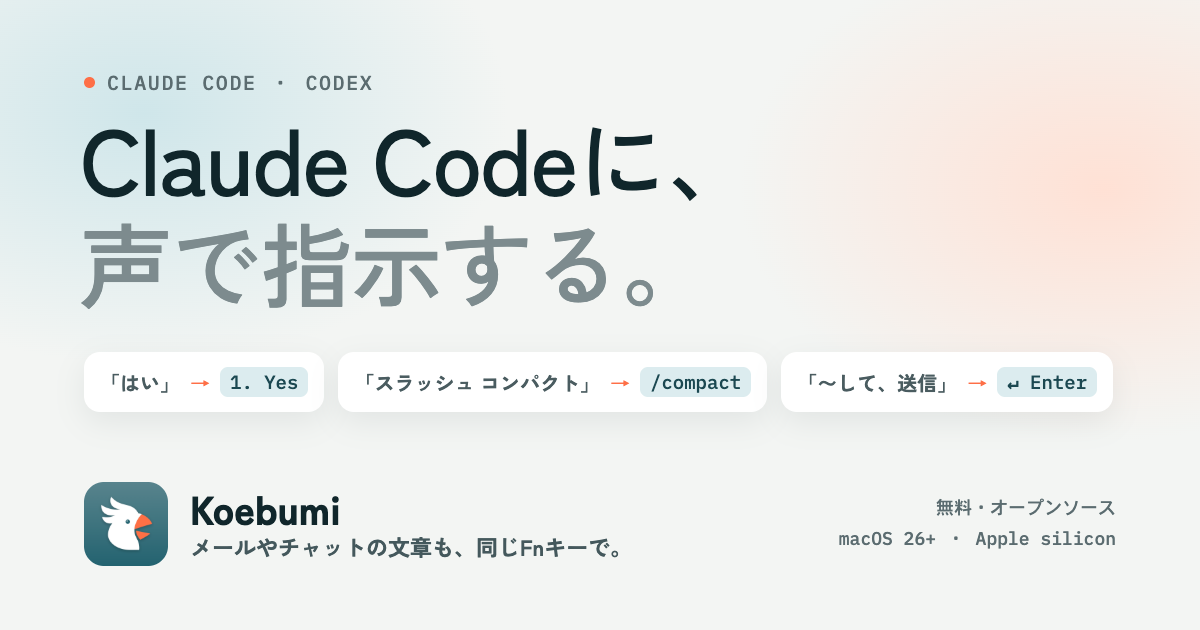
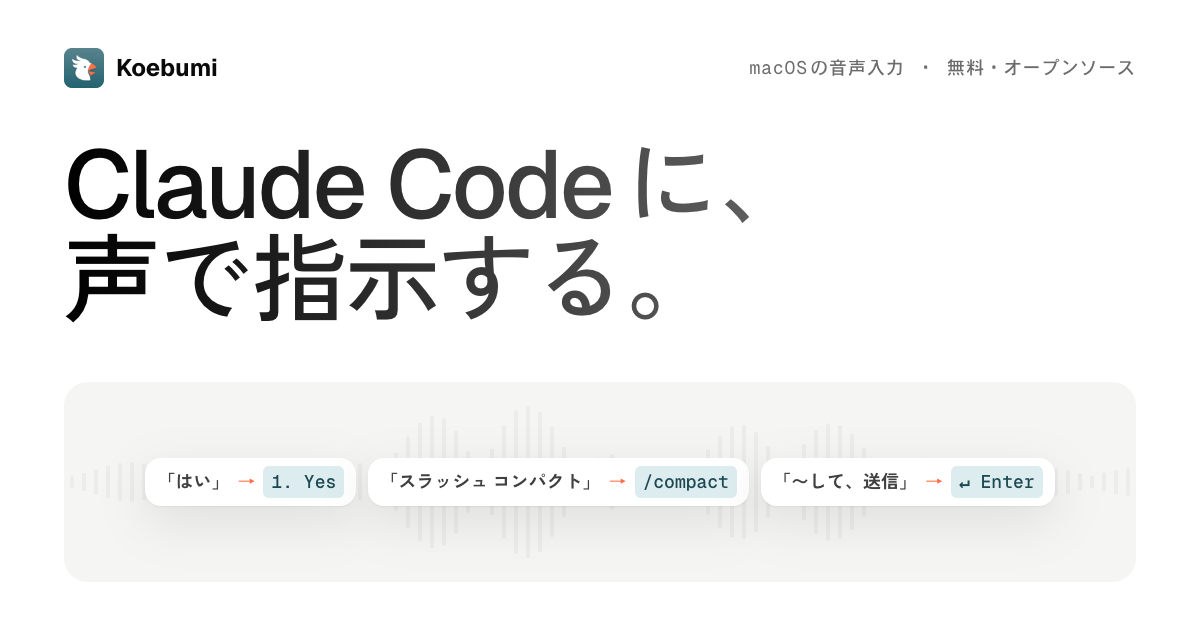
リンクのプレビュー画像を、作り直したサイトの見た目に合わせる
白い地に、墨から灰への見出しと、ファーストビューと同じ波形を置く。書体は Geist と Zen Kaku Gothic New。
X や Slack が前の画像を覚えたままにならないよう、画像の URL に ?v=2 を付ける。

diff --git a/promo/og.html b/promo/og.html
@@ -1,32 +1,46 @@
 <!doctype html>
 <html lang="ja"><head><meta charset="utf-8">
-<link rel="stylesheet" href="https://fonts.googleapis.com/css2?family=Zen+Kaku+Gothic+New:wght@500;700;900&family=IBM+Plex+Mono:wght@500&display=swap">
+<link rel="stylesheet" href="https://fonts.googleapis.com/css2?family=Geist:wght@400..700&family=Geist+Mono:wght@400..500&family=Zen+Kaku+Gothic+New:wght@400;500;700&display=swap">
 <style>
-  /* X や Slack でリンクを貼ったときのプレビュー画像（1200×630）。サイトのファーストビューと同じ見出しにする */
+  /* X や Slack でリンクを貼ったときのプレビュー画像（1200×630）。サイトのファーストビューと同じ見出し・色・書体にする */
+  :root { --ink: #0a0a0a; --ink-2: #404040; --mute: #6b6b6b; --surface: #f5f5f4; --surface-2: #ececea; --line: #e5e5e3;
+          --teal: #2b6772; --teal-ink: #1b4851; --teal-soft: #dcecef; --orange: #fe6f47; }
   html, body { margin: 0; width: 1200px; height: 630px; overflow: hidden; }
-  body { background: radial-gradient(520px 360px at 12% 18%, #cfe6ea, transparent 70%), radial-gradient(520px 360px at 92% 30%, #ffe1d5, transparent 70%), #f3f5f3; color: #10262b; font-family: "Zen Kaku Gothic New", sans-serif; position: relative; }
-  .label { position: absolute; left: 84px; top: 70px; font-family: "IBM Plex Mono", monospace; font-size: 20px; letter-spacing: 0.08em; color: #5b6c70; display: flex; align-items: center; gap: 12px; }
-  .label i { width: 11px; height: 11px; border-radius: 50%; background: #fe6f47; display: block; }
-  h1 { position: absolute; left: 80px; top: 104px; margin: 0; font-size: 92px; font-weight: 500; line-height: 1.14; letter-spacing: -0.02em; }
-  h1 span { color: #7d8b8e; }
-  .chips { position: absolute; left: 84px; right: 84px; top: 352px; display: flex; gap: 14px; }
-  .chip { display: flex; align-items: center; gap: 10px; height: 60px; padding: 0 16px; border-radius: 16px; background: #fff; box-shadow: 0 10px 30px rgba(15, 35, 40, 0.08); font-size: 20px; font-weight: 700; color: #4a5c60; white-space: nowrap; }
-  .chip b { color: #fe6f47; font-weight: 500; }
-  .chip code { font-family: "IBM Plex Mono", monospace; font-size: 19px; font-weight: 500; color: #1b4851; background: #dcecef; border-radius: 8px; padding: 3px 10px; }
-  .foot { position: absolute; left: 84px; right: 84px; bottom: 64px; display: flex; align-items: center; gap: 22px; }
-  .foot img { width: 84px; height: 84px; border-radius: 20px; }
-  .name { font-size: 40px; font-weight: 900; line-height: 1.1; }
-  .tag { font-size: 22px; color: #44585c; font-weight: 700; }
-  .meta { margin-left: auto; text-align: right; font-family: "IBM Plex Mono", monospace; font-size: 18px; color: #5b6c70; line-height: 1.7; }
+  body { position: relative; background: #ffffff; color: var(--ink); font-family: "Geist", "Zen Kaku Gothic New", sans-serif; -webkit-font-smoothing: antialiased; text-autospace: normal; }
+  .top { position: absolute; left: 64px; right: 64px; top: 48px; display: flex; justify-content: space-between; align-items: center; }
+  .brand { display: flex; align-items: center; gap: 12px; font-size: 24px; line-height: 32px; font-weight: 700; }
+  .brand img { width: 40px; height: 40px; border-radius: 8px; }
+  .label { font-family: "Geist Mono", monospace; font-size: 18px; line-height: 28px; letter-spacing: 0.05em; color: var(--mute); }
+  /* 見出しだけ、左から右へ墨から灰へ */
+  h1 { position: absolute; left: 64px; top: 136px; margin: 0; padding-bottom: 8px; font-size: 96px; line-height: 1; font-weight: 500; letter-spacing: -0.025em; font-feature-settings: "palt";
+       background-image: linear-gradient(90deg, #000000, #666666); -webkit-background-clip: text; background-clip: text; color: transparent; }
+  .panel { position: absolute; left: 64px; right: 64px; bottom: 48px; height: 200px; overflow: hidden; border-radius: 24px; background: var(--surface); }
+  .wave { position: absolute; inset: 0; display: flex; align-items: center; justify-content: center; gap: 8px; }
+  .wave i { flex: none; width: 4px; height: 184px; border-radius: 9999px; background: var(--surface-2); }
+  .chips { position: absolute; inset: 0; display: flex; align-items: center; justify-content: center; gap: 12px; }
+  .chip { display: flex; align-items: center; gap: 8px; padding: 8px 12px; border-radius: 16px; background: #ffffff; box-shadow: 0 1px 2px rgba(10, 10, 10, 0.06), 0 16px 48px rgba(10, 10, 10, 0.1);
+          font-size: 18px; line-height: 28px; font-weight: 600; color: var(--ink-2); white-space: nowrap; }
+  .chip b { color: var(--orange); font-weight: 500; }
+  .chip code { padding: 2px 8px; border-radius: 6px; background: var(--teal-soft); color: var(--teal-ink); font-family: "Geist Mono", monospace; font-size: 18px; line-height: 28px; font-weight: 500; }
 </style></head>
 <body>
-  <div class="label"><i></i>CLAUDE CODE ・ CODEX</div>
-  <h1>Claude Codeに、<br><span>声で指示する。</span></h1>
-  <div class="chips">
-    <div class="chip">「はい」<b>→</b><code>1. Yes</code></div>
-    <div class="chip">「スラッシュ コンパクト」<b>→</b><code>/compact</code></div>
-    <div class="chip">「〜して、送信」<b>→</b><code>↵ Enter</code></div>
+  <div class="top">
+    <div class="brand"><img src="../assets/icon-512.png" alt="">Koebumi</div>
+    <div class="label">macOSの音声入力 ・ 無料・オープンソース</div>
   </div>
-  <div class="foot"><img src="../assets/icon-512.png" alt=""><div><div class="name">Koebumi</div><div class="tag">メールやチャットの文章も、同じFnキーで。</div></div>
-    <div class="meta">無料・オープンソース<br>macOS 26+ ・ Apple silicon</div></div>
+  <h1>Claude Codeに、<br>声で指示する。</h1>
+  <div class="panel">
+    <div class="wave" id="wave"></div>
+    <div class="chips">
+      <div class="chip">「はい」<b>→</b><code>1. Yes</code></div>
+      <div class="chip">「スラッシュ コンパクト」<b>→</b><code>/compact</code></div>
+      <div class="chip">「〜して、送信」<b>→</b><code>↵ Enter</code></div>
+    </div>
+  </div>
+  <script>
+    // サイトのファーストビューと同じ、話した声の輪郭のような波形
+    const wave = document.getElementById("wave"), n = 89;
+    wave.innerHTML = "<i></i>".repeat(n);
+    [...wave.children].forEach((b, i) => { const c = (i - (n - 1) / 2) / (n / 3); b.style.transform = `scaleY(${(0.06 + 0.9 * Math.exp(-c * c) * Math.abs(Math.sin(i * 0.37) * Math.sin(i * 0.11 + 1))).toFixed(3)})`; });
+  </script>
 </body></html>

diff --git a/index.html b/index.html
@@ -10,7 +10,7 @@
 <meta property="og:url" content="https://koebumi.github.io/">
 <meta property="og:title" content="Koebumi — Claude Codeに、声で指示する。">
 <meta property="og:description" content="許可の確認への返事も、スラッシュコマンドも、ファイル名も声で。メールやチャットの文章も同じFnキーで整います。無料・オープンソースのmacOSアプリ。">
-<meta property="og:image" content="https://koebumi.github.io/assets/og.png">
+<meta property="og:image" content="https://koebumi.github.io/assets/og.png?v=2">
 <meta property="og:locale" content="ja_JP">
 <meta name="twitter:card" content="summary_large_image">
 <meta name="twitter:site" content="@koebumi_app">

diff --git a/privacy.html b/privacy.html
@@ -10,7 +10,7 @@
 <meta property="og:url" content="https://koebumi.github.io/privacy.html">
 <meta property="og:title" content="プライバシーポリシー — Koebumi">
 <meta property="og:description" content="履歴・録音・辞書はこのMacにだけ保存し、クラウドのエンジンを選んだときだけ、選んだサービスに送ります。">
-<meta property="og:image" content="https://koebumi.github.io/assets/og.png">
+<meta property="og:image" content="https://koebumi.github.io/assets/og.png?v=2">
 <meta property="og:locale" content="ja_JP">
 <meta name="twitter:card" content="summary_large_image">
 <meta name="twitter:site" content="@koebumi_app">
